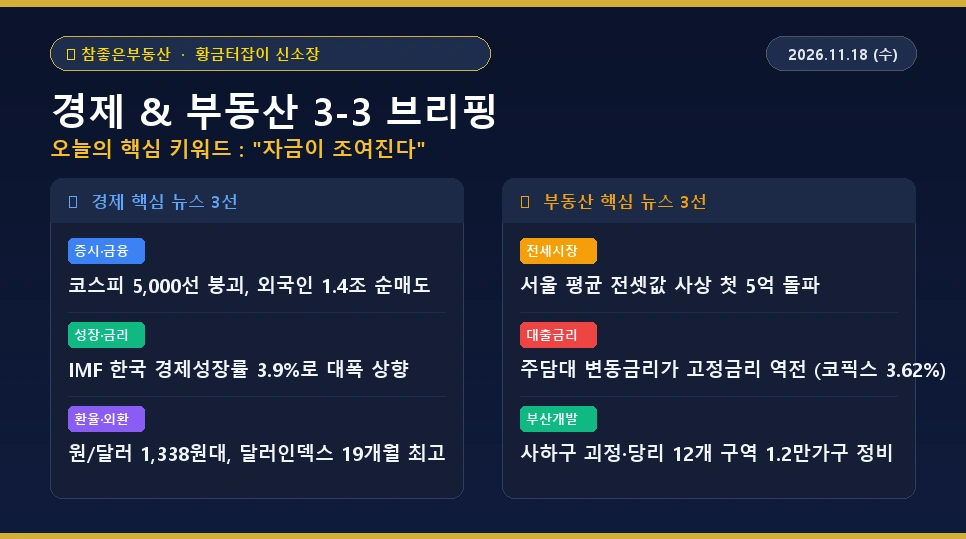
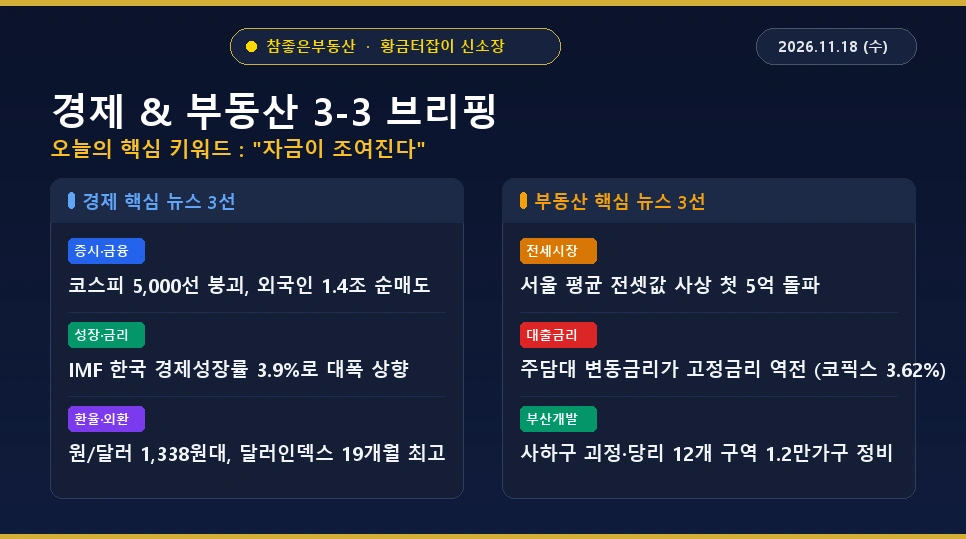
fix: 3-3브리핑 썸네일 좌측 상단 뱃지와 겹치던 '황금터잡이 신소장' 문구를 우측 옆으로 이동 및 특수문자 그래픽 개선

diff --git a/index.html b/index.html
@@ -1764,7 +1764,8 @@
           <p class="series-spotlight-desc">정확한 매물 분석과 성실한 현장 조사로 고객의 안심 거래를 약속하는 하팀장의 엄선 매물 브리핑입니다.</p>
         </div>
         <div class="series-spotlight-meta">
-          <a id="haBlogLinkBtn" href="https://blog.naver.com/realty1030" target="_blank" rel="noopener noreferrer" class="series-blog-btn emerald-blog-btn">
+          <a id="haBlogLinkBtn" href="https://blog.naver.com/realty1030" target="_blank" rel="noopener noreferrer"
+            class="series-blog-btn emerald-blog-btn">
             <span class="naver-n-icon">N</span>
             <span>하팀장 블로그 바로가기</span>
           </a>
@@ -2274,7 +2275,9 @@
           대표: 신제환 | 등록번호: 26530-2026-00009 | 사업자등록번호: 355-03-03698<br>
           소재지: 부산광역시 사상구 덕포동 426-16 1층 | 대표전화: 051-911-8249 | 휴대전화: 010-9667-4201<br>
           슬로건: 사장님의 내일을 짓다 | 업무분야: 사상구 상가·사무실 창업/이전, 아파트·주택 매매전세, 토지 개발컨설팅<br>
-          공식 카카오톡 채널: <a href="http://pf.kakao.com/_MdAfX" target="_blank" rel="noopener noreferrer" style="color:var(--primary-gold); text-decoration:underline; font-weight:700;">참좋은공인중개사사무소 (http://pf.kakao.com/_MdAfX)</a>
+          공식 카카오톡 채널: <a href="http://pf.kakao.com/_MdAfX" target="_blank" rel="noopener noreferrer"
+            style="color:var(--primary-gold); text-decoration:underline; font-weight:700;">참좋은공인중개사사무소
+            (http://pf.kakao.com/_MdAfX)</a>
         </p>
       </div>
       <div class="footer-bottom-row">
@@ -2344,7 +2347,8 @@
         </svg>
         링크 공유
       </button>
-      <a href="tel:010-9667-4201" class="btn-write-review" id="modalCallBtn" style="padding:10px 20px; font-size:0.95rem;">
+      <a href="tel:010-9667-4201" class="btn-write-review" id="modalCallBtn"
+        style="padding:10px 20px; font-size:0.95rem;">
         <svg class="icon" viewBox="0 0 24 24">
           <path
             d="M22 16.92v3a2 2 0 0 1-2.18 2 19.79 19.79 0 0 1-8.63-3.07 19.5 19.5 0 0 1-6-6 19.79 19.79 0 0 1-3.07-8.67A2 2 0 0 1 4.11 2h3a2 2 0 0 1 2 1.72 12.84 12.84 0 0 0 .7 2.81 2 2 0 0 1-.45 2.11L8.09 9.91a16 16 0 0 0 6 6l1.27-1.27a2 2 0 0 1 2.11-.45 12.84 12.84 0 0 0 2.81.7A2 2 0 0 1 22 16.92z" />
